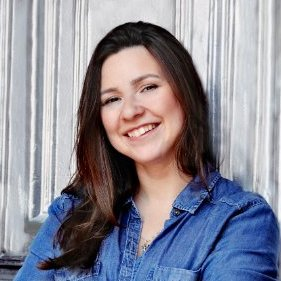
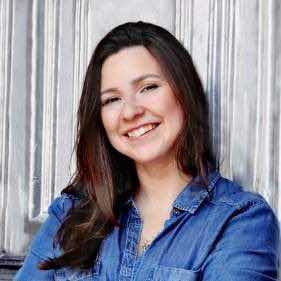
update profile photo

diff --git a/js/about_template.js b/js/about_template.js
@@ -1,12 +1,12 @@
 var about = [
   {
-    p: 'At present, I work at Zalando’s Advertising Engineering Department.'
+    p: 'At present, I am part of Zalando Marketing Services. And I contribute to build and leverage ZMS frontend tooling within zalando tech ecosystem.'
   },
   {
     p: 'I’m originally from Barcelona, but I lived and worked in London for a while before landing here.'
   },
   {
-    p: 'Hi, I am a Frontend and Ruby on Rails Developer based in Berlin.'
+    p: 'Hi, I am a Javascript Developer based in Berlin.'
   }
 ];
 

diff --git a/bundle.js b/bundle.js
@@ -74,11 +74,11 @@
 
 
 var about = [{
-  p: 'At present, I work at Zalando’s Advertising Engineering Department.'
+  p: 'At present, I am part of Zalando Marketing Services. And I contribute to build and leverage ZMS frontend tooling within zalando tech ecosystem.'
 }, {
   p: 'I’m originally from Barcelona, but I lived and worked in London for a while before landing here.'
 }, {
-  p: 'Hi, I am a Frontend and Ruby on Rails Developer based in Berlin.'
+  p: 'Hi, I am a Javascript Developer based in Berlin.'
 }];
 
 {

diff --git a/index.html b/index.html
@@ -80,7 +80,7 @@
         <div id="about-container">
           <div class="row">
             <div>
-              <img src="img/profile.jpg" alt="my profile image">
+              <img src="img/coding_with_lola.jpg" alt="my profile image">
             </div>
             <div>
               <div id="about-texts">
